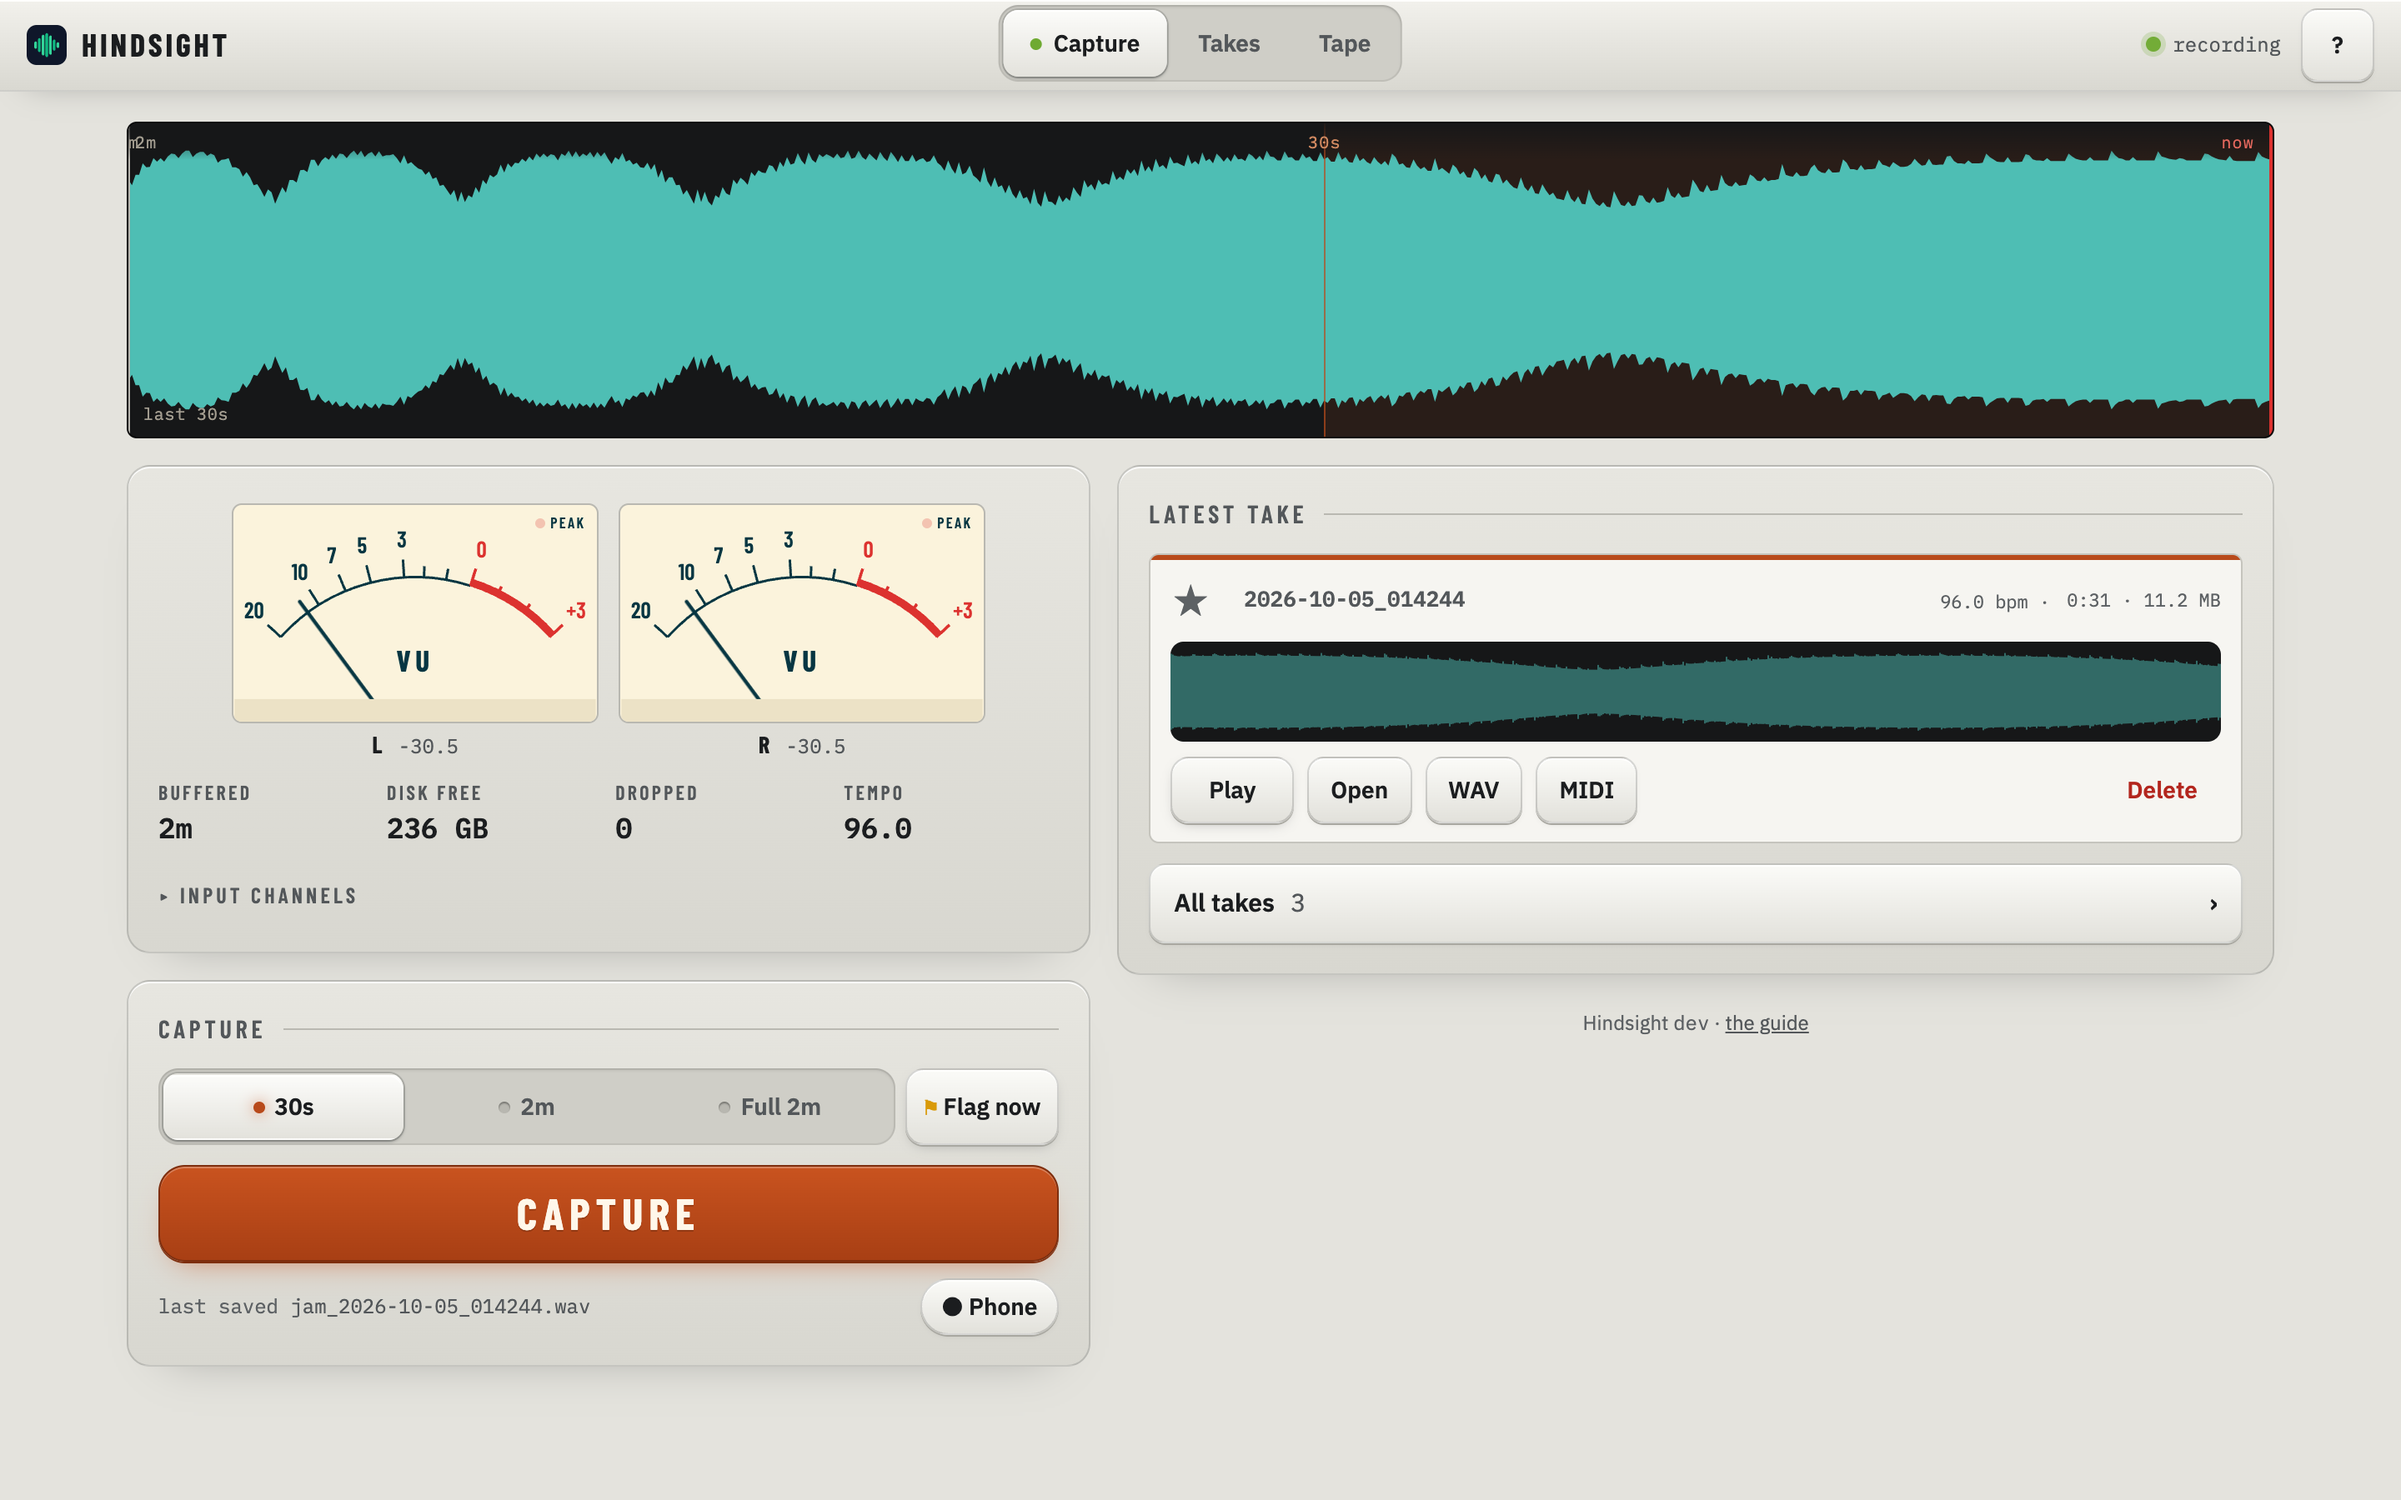
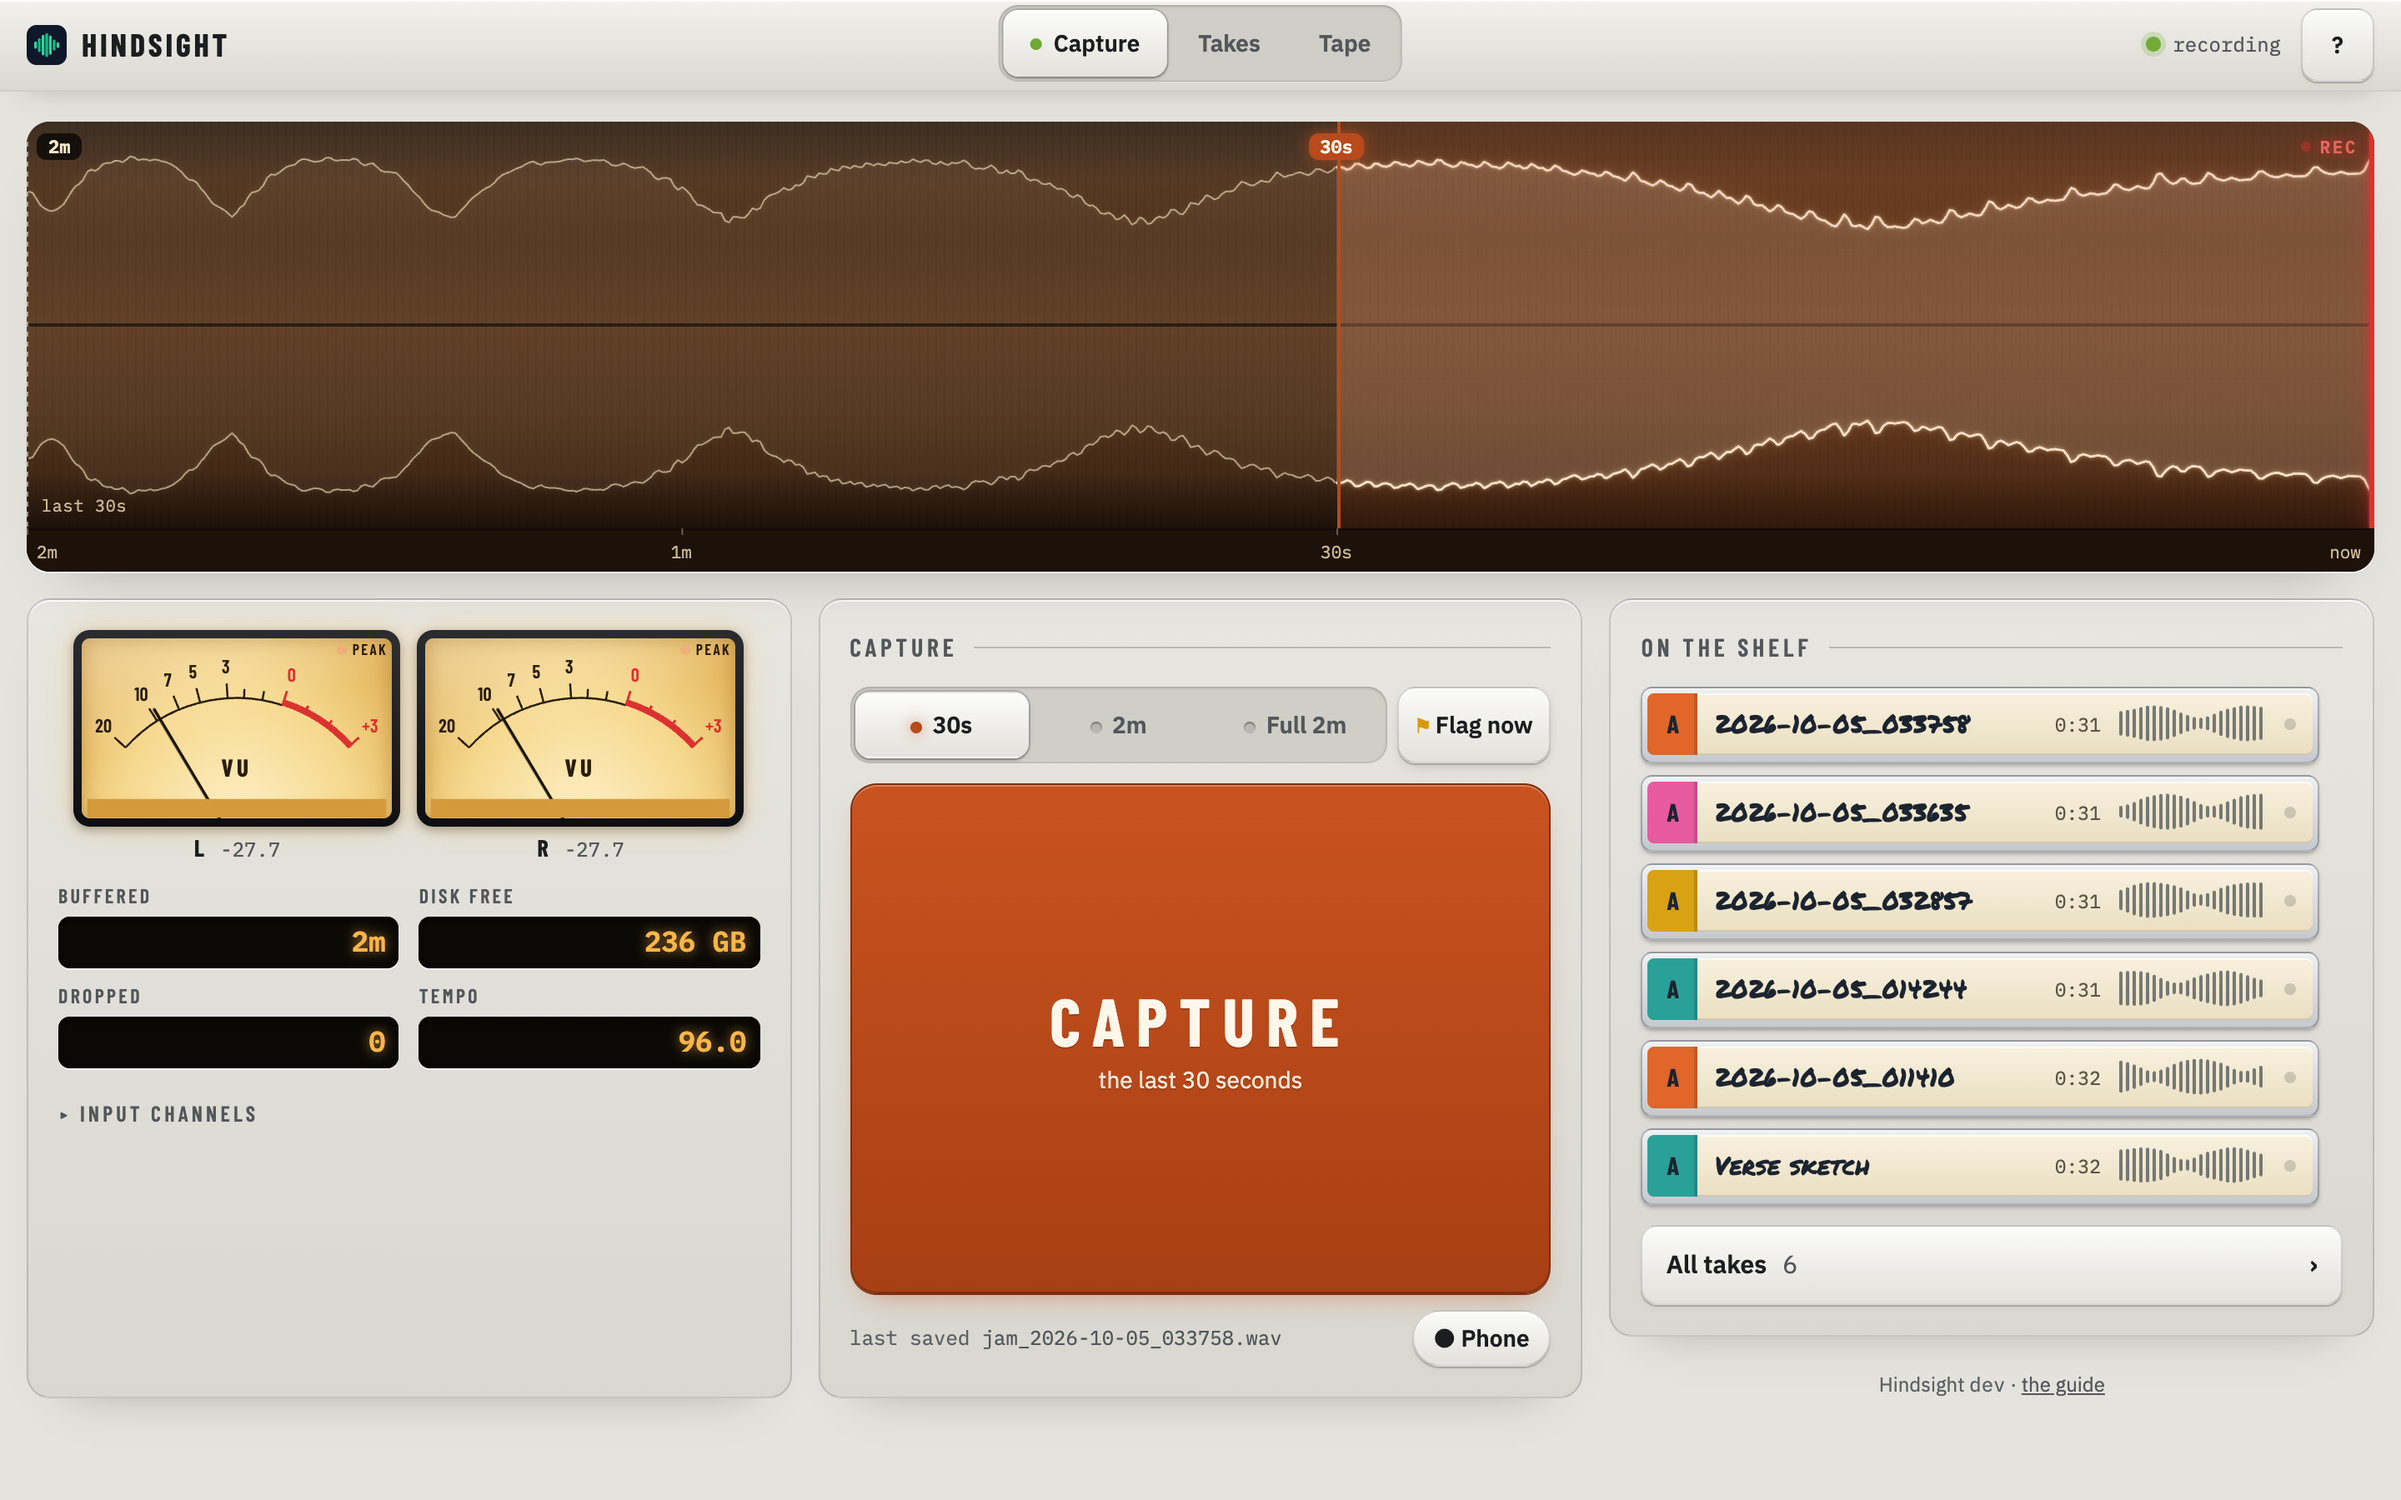
PR 4: cache bump, the guide, screenshots

diff --git a/web/static/styles.css b/web/static/styles.css
@@ -1815,14 +1815,18 @@ body.help-mode .help-btn { background: var(--accent); color: var(--on-accent); b
   .main-page main { padding-bottom: 14px; }
   .main-page .about { display: none; }
   body.main-page .take.spine { height: 38px; }
-  body.main-page .take.spine .take-meta { display: none; }
-  body.main-page .take.spine .take-name { font-size: 14px; }
-  body.main-page .take.spine .wave { width: 70px; height: 20px; }
   .main-page .mark-btn { font-size: 0; min-width: 44px; padding: 0 12px; }
   .main-page .mark-btn::before { font-size: 16px; }
 }
 @media (min-width: 900px) and (orientation: landscape) and (min-height: 760px) {
   .main-page main { padding-bottom: 20px; }
+}
+/* Three columns under 1100 px wide: the shelf column is narrow, so a spine
+   keeps its name and gives up its length and some bars. */
+@media (min-width: 900px) and (max-width: 1099.98px) and (orientation: landscape) and (min-height: 561px) {
+  body.main-page .take.spine .take-meta { display: none; }
+  body.main-page .take.spine .take-name { font-size: 14px; }
+  body.main-page .take.spine .wave { width: 70px; height: 20px; }
 }
 
 /* ---------- the app bar ---------- */

diff --git a/web/static/sw.js b/web/static/sw.js
@@ -5,7 +5,7 @@
 // the Pi itself, so there is nothing useful to serve when it is unreachable.
 
 // Bump whenever SHELL changes, so installed phones fetch the new shell.
-const CACHE = 'hindsight-shell-v20';
+const CACHE = 'hindsight-shell-v21';
 const SHELL = [
   '/',
   '/index.html',
@@ -18,6 +18,7 @@ const SHELL = [
   '/lib/meter.js',
   '/lib/ribbon.js',
   '/lib/ribbonmath.js',
+  '/lib/ribbon-draw.js',
   '/lib/takes.js',
   '/lib/toast.js',
   '/lib/client.js',
@@ -44,6 +45,7 @@ const SHELL = [
   '/lib/wave/lanes.js',
   '/lib/wave/rising.js',
   '/lib/wave/draw.js',
+  '/lib/wave/tape-strip.js',
   '/lib/wave/rowwave.js',
   '/lib/wave/grease.js',
   '/lib/edit/gestures.js',

diff --git a/docs/guide.md b/docs/guide.md
@@ -69,22 +69,27 @@ just move references around.
 
 **What's on it, top to bottom:**
 
-- **The buffer ribbon.** It draws the last 15 minutes, with the recent end
-  stretched so you can see it.
-- **The meters,** VU needles for the channels being saved, with the level in
-  dBFS under each. On a phone held sideways they fold to two bars.
-- **Capture.** Choose 30 s, 2 m, 7 m or Full, and tap *Capture* to save that
-  much of the past as a take.
+- **The buffer ribbon.** The last 15 minutes on tape, passing the red record
+  head at *REC*, with the recent end stretched so you can see it. The length
+  Capture would catch is lit orange; the pills along the top mark each
+  length, and the strip underneath says how long ago.
+- **The meters,** backlit VU needles for the channels being saved, with the
+  level in dBFS under each, and the buffer, disk, dropped and tempo
+  readouts in amber. On a phone held sideways the needles fold to two bars.
+- **Capture.** Choose 30 s, 2 m, 7 m or Full -- the key says how much it
+  will catch -- and tap *Capture* to save that much of the past as a take.
+  It glows a moment when it has.
 - **Flag now.** It marks this moment in the ring;
   the flag rides along into any take that includes it.
-- **The latest take.** Tap its name to rename it, ★ to star it, and the
-  waveform to hear it; *Open* opens its page. **All takes** goes to the
-  takes page (§3.1), where the rest live.
+- **On the shelf.** The newest takes as cassettes, a new one sliding in with
+  a *NEW* sticker. Tap one to hear it, tap again to stop. **All takes** goes
+  to the takes page (§3.1), where the rest live and where a take is renamed,
+  starred and opened.
 
 **Checks — today:**
 
-- [demo] Tap *Capture* with 30 s chosen → it becomes the latest take within
-  a few seconds, about 30 s long, and plays.
+- [demo] Tap *Capture* with 30 s chosen → a cassette slides onto the shelf
+  with *NEW* within a few seconds, about 30 s long, and plays when tapped.
 - [demo] Tap *Flag now*, wait, then capture → the take has a flag at that
   moment.
 - [demo] Star an older take → it is pruned last, and the takes page's
